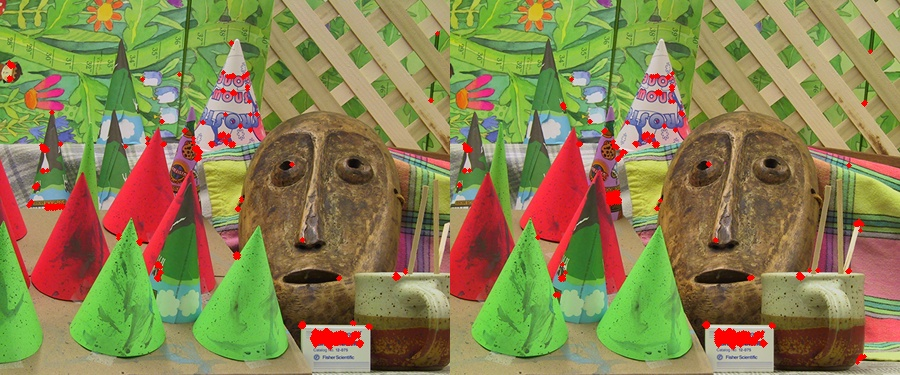
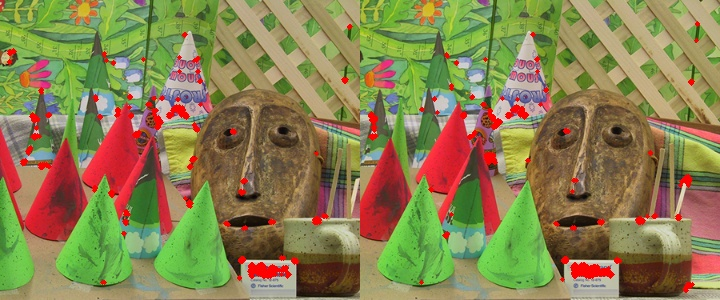
Calculated Disparity

diff --git a/stereo.py b/stereo.py
@@ -7,109 +7,70 @@ import matplotlib.pyplot as plt
 from tqdm import *
 
 
-# def computeDisparityMap(img1, img2, F):
-#     """
-#     Compute the disparity map using the fundamental matrix.
-#     ## Args:
-#         stereo images: input images
-#         F: Best fundamental calculated
-#     ## Returns:
-#         Normalized disparity map
-#     """
-#     # Convert to grayscale.
-#     image_1 = cv2.cvtColor(img1, cv2.COLOR_BGR2GRAY)
-#     image_2 = cv2.cvtColor(img2, cv2.COLOR_BGR2GRAY)
+def create_disparity_map(left_image, right_image, window_size=9, max_disparity=120):
+    """
+    Creates a horizontal disparity map from two input images using the Block Matching Algorithm.
 
-#     # Set the window size.
-#     window = 7
+    ## Args:
+        left_image (numpy.ndarray): The left input image.
+        right_image (numpy.ndarray): The right input image.
+        window_size (int, optional): The size of the window used for block matching. Defaults to 5.
+        max_disparity (int, optional): The maximum allowed disparity. Defaults to 64.
 
-#     # Initialize the left and right stero arrays
-#     left_arr, right_arr = image_1, image_2
-#     left_arr, right_arr = left_arr.astype(int), right_arr.astype(int)
+    ## Returns:
+        numpy.ndarray: The horizontal disparity map.
+    """
 
-#     # CHECK
-#     if left_arr.shape != right_arr.shape:
-#         raise Exception("Left- Right image shape do not match")
-    
-#     # Get the h and w of the image
-#     h, w = left_arr.shape
+    # Convert input images to grayscale
+    left_gray = cv2.cvtColor(left_image, cv2.COLOR_BGR2GRAY)
+    right_gray = cv2.cvtColor(right_image, cv2.COLOR_BGR2GRAY)
 
-#     # Initialize the disparity map
-#     disparity_map = np.zeros((h,w))
+    # Get image dimensions
+    height, width = left_gray.shape
 
-#     #Compute disparity of each pixel.
-#     x_new = w - (2*window)
-#     for y in tqdm(range(window, h-window)):
-#         block_left_arr = []
-#         block_right_arr = []
-#         for x in range(window, w-window):
-#             block_left = left_arr[y:y + window,
-#                                     x:x + window]
-#             block_left_arr.append(block_left.flatten())
+    # Initialize the disparity map with zeros
+    disparity_map = np.zeros((height, width), dtype=np.uint8)
 
-#             block_right = right_arr[y:y + window,
-#                                     x:x + window]
-#             block_right_arr.append(block_right.flatten())
+    # Compute half of the window size
+    half_window = window_size // 2
 
-#         block_left_arr = np.array(block_left_arr)
-#         block_left_arr = np.repeat(block_left_arr[:, :, np.newaxis], x_new, axis=2)
+    # Loop through each pixel in the left image
+    for y in tqdm(range(half_window, height - half_window)):
+        for x in range(half_window, width - half_window):
+            # Extract the window from the left image
+            left_window = left_gray[y - half_window:y + half_window + 1, x - half_window:x + half_window + 1]
 
-#         block_right_arr = np.array(block_right_arr)
-#         block_right_arr = np.repeat(block_right_arr[:, :, np.newaxis], x_new, axis=2)
-#         block_right_arr = block_right_arr.T
+            # Initialize variables for storing the best disparity and matching cost
+            best_disparity = 0
+            best_cost = float('inf')
 
-#         abs_diff = np.abs(block_left_arr - block_right_arr)
-#         sum_abs_diff = np.sum(abs_diff, axis = 1)
-#         idx = np.argmin(sum_abs_diff, axis = 0)
-#         disparity = np.abs(idx - np.linspace(0, x_new, x_new, dtype=int)).reshape(1, x_new)
-#         disparity_map[y, 0:x_new] = disparity 
-#         # Convert to uint8
-#         disparity_map_int = np.uint8(disparity_map * 255 / np.max(disparity_map))
+            # Loop through each possible disparity value
+            for disparity in range(max_disparity):
+                # Compute the corresponding x-coordinate in the right image
+                x_right = x - disparity
 
-#     return disparity_map_int
+                # Skip if x-coordinate is out of bounds
+                if x_right < half_window or x_right >= width - half_window:
+                    continue
 
-def ncc_score(block_left, block_right):
-    """Compute the normalized cross-correlation (NCC) score between two blocks."""
-    mean_left = np.mean(block_left)
-    mean_right = np.mean(block_right)
-    std_left = np.std(block_left)
-    std_right = np.std(block_right)
-    ncc = np.sum((block_left - mean_left) * (block_right - mean_right)) / (std_left * std_right * block_left.size)
-    return ncc
+                # Extract the window from the right image
+                right_window = right_gray[y - half_window:y + half_window + 1, x_right - half_window:x_right + half_window + 1]
 
-def non_overlapping_block_matching(left_img, right_img, block_size=5):
-    """Compute the disparity map using non-overlapping block matching."""
-    left_img = cv2.cvtColor(left_img, cv2.COLOR_BGR2GRAY)
-    right_img = cv2.cvtColor(right_img, cv2.COLOR_BGR2GRAY)
+                # Compute the sum of absolute differences (SAD) between the windows
+                cost = np.sum(np.square(left_window - right_window))
 
-    # Pad the images to ensure that the blocks can be extracted from the edges
-    pad_size = block_size // 2
-    left_img_padded = np.pad(left_img, pad_size, mode='constant', constant_values=0)
-    right_img_padded = np.pad(right_img, pad_size, mode='constant', constant_values=0)
-    # Initialize the disparity map
-    disparity_map = np.zeros_like(left_img)
-    # Compute the disparity for each block in the left image
-    for i in tqdm(range(pad_size, left_img.shape[0] + pad_size, block_size)):
-        for j in range(pad_size, left_img.shape[1] + pad_size, block_size):
-            # Extract the current block in the left image
-            block_left = left_img_padded[i-pad_size:i+pad_size+1, j-pad_size:j+pad_size+1]
-            # Search for the best matching block in the right image
-            max_ncc = -1
-            for k in range(pad_size, right_img.shape[1] + pad_size - block_size + 1, block_size):
-                # Extract the current block in the right image
-                block_right = right_img_padded[i-pad_size:i+pad_size+1, k-pad_size:k+pad_size+1]
-                # Compute the NCC score between the two blocks
-                ncc = ncc_score(block_left, block_right)
-                # Update the best matching block if the NCC score is higher than the current maximum
-                if ncc > max_ncc:
-                    max_ncc = ncc
-                    disparity = k - j
-            # Update the disparity map with the computed disparity
-            disparity_map[i-pad_size:i+pad_size+1, j-pad_size:j+pad_size+1] = disparity
-    # Normalize the disparity map from 0 to 255
-    disparity_map_normalized = cv2.normalize(disparity_map, None, alpha=0, beta=255, norm_type=cv2.NORM_MINMAX, dtype=cv2.CV_8U)
+                # Update the best disparity and matching cost if necessary
+                if cost < best_cost:
+                    best_disparity = disparity
+                    best_cost = cost
 
-    return disparity_map_normalized
+            # Store the best disparity value in the disparity map
+            disparity_map[y, x] = best_disparity
+
+            # Brighten the disparity map for visualization
+        disparity_map = cv2.normalize(disparity_map, disparity_map, alpha=0, beta=255, norm_type=cv2.NORM_MINMAX, dtype=cv2.CV_8U)
+
+    return disparity_map
 
 
 def get_images(image_paths, scale_factor=1.0):
@@ -414,7 +375,7 @@ def main():
     image_filenames = args.image_filenames
 
     # Read in the images
-    img1, img2 = get_images(image_filenames, scale_factor=1.0)
+    img1, img2 = get_images(image_filenames, scale_factor=0.8)
 
     # ii. Apply Harris corner detector to both images: compute Harris R function over the
     # image, and then do non-maximum suppression to get a sparse set of corner features.
@@ -434,10 +395,10 @@ def main():
 
     # v. Compute the disparity map
     # Convert to grayscale
-    #disparity_map = non_overlapping_block_matching(img1, img2, 7)
-    disparity_map = non_overlapping_block_matching(img1, img2, 3)
+    disparity_map = create_disparity_map(img1, img2, window_size=15, max_disparity=64)
 
-    plt.imshow(disparity_map, cmap='plasma_r')
+
+    plt.imshow(disparity_map, cmap='gray')
     plt.show()
 
 
